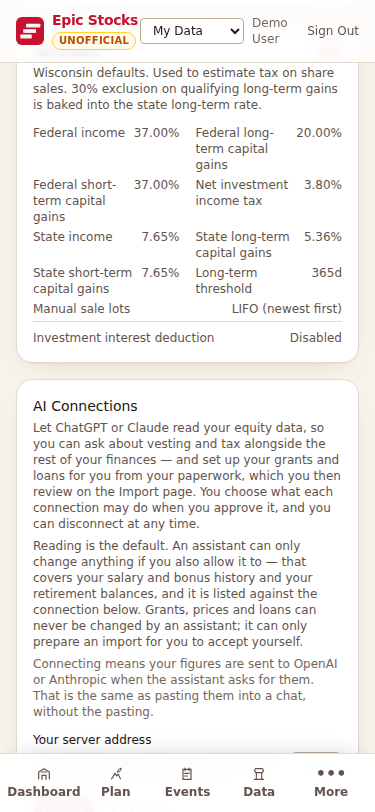
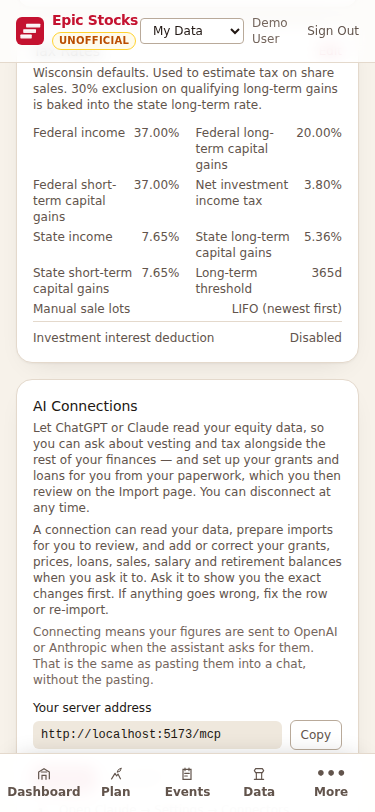
Grant every connector permission by default
ChatGPT requests no scope, so it was given reads only and there was no
way on the consent screen to let it import or edit. The app is not the
source of truth for anyone's equity — a wrong row is corrected or
re-imported — so a client that names no scope now gets every grantable
scope, and the opt-in checkbox from #558 is removed. The consent screen
still lists what is granted and says the connection can make changes.
Settings and README copy no longer claim reading is the default.

Claude-Session: https://claude.ai/code/session_01LoYvcZMzxmSQqum5N2oGUK

Changed region(s): [[0.088, 0.585, 0.9093, 0.9236]]

diff --git a/frontend/src/scaffold/components/AiConnectionsSection.tsx b/frontend/src/scaffold/components/AiConnectionsSection.tsx
@@ -117,16 +117,13 @@ export function AiConnectionsSection() {
         Let ChatGPT or Claude read your equity data, so you can ask about vesting
         and tax alongside the rest of your finances — and set up your grants and
         loans for you from your paperwork, which you then review on the Import
-        page. You choose what each
-        connection may do when you approve it, and you can disconnect at any
-        time.
+        page. You can disconnect at any time.
       </p>
       <p className="mt-1.5 text-xs text-cs-text-2">
-        Reading is the default. An assistant can only change anything if you
-        also allow it to — that covers your salary and bonus history and your
-        retirement balances, and it is listed against the connection below.
-        Grants, prices and loans can never be changed by an assistant; it can
-        only prepare an import for you to accept yourself.
+        A connection can read your data, prepare imports for you to review, and
+        add or correct your grants, prices, loans, sales, salary and retirement
+        balances when you ask it to. Ask it to show you the exact changes
+        first. If anything goes wrong, fix the row or re-import.
       </p>
       <p className="mt-1.5 text-xs text-cs-muted">
         Connecting means your figures are sent to OpenAI or Anthropic when the

diff --git a/frontend/src/__tests__/AiConnectionsSection.test.tsx b/frontend/src/__tests__/AiConnectionsSection.test.tsx
@@ -150,13 +150,11 @@ describe('AiConnectionsSection', () => {
     expect(screen.queryByText('Recent activity')).not.toBeInTheDocument()
   })
 
-  it('is explicit that reading is the default and writing is opt-in', async () => {
+  it('says plainly that a connection can edit, and how to recover', async () => {
     vi.spyOn(api, 'getAiConnections').mockResolvedValue([])
     render(<AiConnectionsSection />)
-    expect(await screen.findByText(/Reading is the default/)).toBeInTheDocument()
-    // The one promise that must survive any new scope: equity is never
-    // writable by an assistant.
-    expect(screen.getByText(/never be changed by an assistant/)).toBeInTheDocument()
+    expect(await screen.findByText(/add or correct your grants/)).toBeInTheDocument()
+    expect(screen.getByText(/fix the row or re-import/)).toBeInTheDocument()
   })
 
   it('marks a connection that was allowed to make changes', async () => {

diff --git a/backend/scaffold/oauth/consent.py b/backend/scaffold/oauth/consent.py
@@ -71,8 +71,6 @@ li svg { flex: none; margin-top: .1875rem; }
   font-size: .8125rem; color: var(--text-2); background: var(--raised);
   border-radius: .625rem; padding: .625rem .75rem; margin-bottom: 1rem;
 }
-.opt { display: flex; gap: .5rem; align-items: flex-start; font-size: .8125rem; margin: 0 0 1rem; }
-.opt input { margin-top: .2rem; }
 .who { font-size: .8125rem; color: var(--muted); margin-bottom: 1.25rem; word-break: break-all; }
 .actions { display: flex; gap: .5rem; }
 button {
@@ -108,7 +106,7 @@ def _page(title: str, body: str) -> str:
 def render_consent(*, client_name: str, redirect_origin: str, account_email: str,
                    scope_labels: list[str], request_token: str, csrf: str,
                    read_only: bool = True, writes_directly: bool = False,
-                   equity_write: bool = False, offer_import: bool = False,
+                   equity_write: bool = False,
                    app_name: str = "Epic Stocks") -> str:
     items = "".join(f"<li>{_CHECK}<span>{_esc(label)}</span></li>" for label in scope_labels)
     # The claim has to follow the scopes actually being granted. This is the one
@@ -120,11 +118,6 @@ def render_consent(*, client_name: str, redirect_origin: str, account_email: str
         note = (
             "It will not be able to change anything — this connection is "
             "read-only. You can disconnect it at any time in Settings."
-            if not offer_import else
-            "It will not be able to change anything — this connection is "
-            "read-only unless you tick the option below, which still changes "
-            "nothing until you accept it in the app. You can disconnect it at "
-            "any time in Settings."
         )
     elif writes_directly and equity_write:
         note = (
@@ -155,10 +148,7 @@ def render_consent(*, client_name: str, redirect_origin: str, account_email: str
         "<form method=\"post\" action=\"/oauth/authorize\">"
         f"<input type=\"hidden\" name=\"request\" value=\"{_esc(request_token)}\">"
         f"<input type=\"hidden\" name=\"csrf\" value=\"{_esc(csrf)}\">"
-        + ("<label class=\"opt\"><input type=\"checkbox\" name=\"add_scope\" "
-           "value=\"import:propose\"><span>Also let it prepare imports for you to "
-           "review — it cannot change your data</span></label>" if offer_import else "")
-        +         "<div class=\"actions\">"
+        "<div class=\"actions\">"
         "<button class=\"deny\" type=\"submit\" name=\"decision\" value=\"deny\">Cancel</button>"
         "<button class=\"allow\" type=\"submit\" name=\"decision\" value=\"allow\">Connect</button>"
         "</div></form>"

diff --git a/backend/tests/test_oauth_server.py b/backend/tests/test_oauth_server.py
@@ -758,51 +758,3 @@ def test_the_whole_flow_works_when_the_user_has_to_sign_in_first(client, db_sess
     })
     assert tokens.status_code == 200, tokens.text
     assert tokens.json()["access_token"]
-
-
-# ── opting in to imports on the consent screen (#558) ───────────────────────
-
-def _connect_with(client, scope, add_scope=None):
-    reg = register_client(client)
-    verifier, challenge = pkce_pair()
-    page = authorize(client, reg["client_id"], challenge, scope=scope).text
-    action = page.split('<form method="post" action="')[1].split('"')[0]
-    request_token = page.split('name="request" value="')[1].split('"')[0]
-    csrf = page.split('name="csrf" value="')[1].split('"')[0]
-    data = {"request": request_token, "csrf": csrf, "decision": "allow"}
-    if add_scope:
-        data["add_scope"] = add_scope
-    code = code_from(client.post(action, data=data, follow_redirects=False))
-    return page, client.post("/oauth/token", data={
-        "grant_type": "authorization_code", "code": code, "redirect_uri": REDIRECT,
-        "client_id": reg["client_id"], "code_verifier": verifier}).json()
-
-
-def test_a_reading_connection_is_offered_imports_unticked(client):
-    register_user(client)
-    page, tokens = _connect_with(client, "equity:read comp:read")
-    assert 'name="add_scope" value="import:propose"' in page
-    assert " checked" not in page.split('name="add_scope"')[1].split(">")[0]
-    assert "import:propose" not in tokens["scope"]
-
-
-def test_ticking_the_offer_grants_imports(client):
-    register_user(client)
-    _, tokens = _connect_with(client, "equity:read", add_scope=["import:propose"])
-    assert tokens["scope"].split() == ["equity:read", "import:propose"]
-
-
-def test_the_offer_cannot_smuggle_in_a_direct_write(client):
-    register_user(client)
-    _, tokens = _connect_with(client, "equity:read",
-                              add_scope=["equity:write", "comp:write", "import:propose"])
-    assert tokens["scope"].split() == ["equity:read", "import:propose"]
-
-
-def test_no_offer_without_equity_read_or_when_already_requested(client):
-    register_user(client)
-    reg = register_client(client)
-    _, challenge = pkce_pair()
-    for scope in ("comp:read", "equity:read import:propose"):
-        page = authorize(client, reg["client_id"], challenge, scope=scope).text
-        assert 'name="add_scope"' not in page

diff --git a/backend/scaffold/oauth/scopes.py b/backend/scaffold/oauth/scopes.py
@@ -38,10 +38,12 @@ IMMEDIATE_WRITE_SCOPES: frozenset[str] = frozenset({COMP_WRITE, EQUITY_WRITE})
 # "not yet" rather than a bare invalid_scope.
 RESERVED_SCOPES: tuple[str, ...] = ("shared:read",)
 
-# What a client that names no scope gets. Deliberately the reads only: most MCP
-# clients do not narrow, and nothing that leaves a trace should arrive by
-# default.
-DEFAULT_SCOPES: tuple[str, ...] = (EQUITY_READ, COMP_READ)
+# What a client that names no scope gets: everything grantable. ChatGPT names
+# none, and a read-only default left people unable to find how to let it edit.
+# The app is not the source of truth for anyone's equity — a wrong row is fixed
+# by editing it or re-importing — so the consent screen lists what is granted
+# and that is the check.
+DEFAULT_SCOPES: tuple[str, ...] = SUPPORTED_SCOPES
 
 SCOPE_LABELS: dict[str, str] = {
     EQUITY_READ: "Read your equity — grants, vesting, prices, loans, sales and tax estimates",
@@ -50,26 +52,6 @@ SCOPE_LABELS: dict[str, str] = {
     IMPORT_PROPOSE: "Prepare an import for you to review — it cannot change your data",
     EQUITY_WRITE: "Create, correct or remove your grants, prices, loans and sales directly",
 }
-
-
-# What the consent screen may add when the client did not ask for it. Clients
-# that request no scope get reads only, so without this the import path — the
-# ordinary way in — was invisible to them with no way for the user to enable it.
-# Only the review-first permission: nothing that writes directly is offered.
-OPT_IN_SCOPES: frozenset[str] = frozenset({IMPORT_PROPOSE})
-
-
-def can_offer_import(granted: list[str] | tuple[str, ...]) -> bool:
-    return EQUITY_READ in granted and IMPORT_PROPOSE not in granted
-
-
-def with_opt_in(scope: str, chosen: list[str]) -> str:
-    """The pending scope plus whatever the user ticked that may be offered."""
-    granted = scope.split()
-    for s in chosen:
-        if s in OPT_IN_SCOPES and s not in granted and can_offer_import(granted):
-            granted.append(s)
-    return format_scope(granted)
 
 
 def writes_anything(scopes: list[str] | tuple[str, ...]) -> bool:

diff --git a/backend/scaffold/oauth/router.py b/backend/scaffold/oauth/router.py
@@ -314,7 +314,6 @@ def authorize(request: Request, db: Session = Depends(get_db)):
         read_only=not scope_defs.writes_anything(granted),
         writes_directly=scope_defs.writes_directly(granted),
         equity_write=scope_defs.EQUITY_WRITE in granted,
-        offer_import=scope_defs.can_offer_import(granted),
         request_token=request_token,
         csrf=_csrf_for(session_token, request_token),
     ))
@@ -359,7 +358,6 @@ def authorize_resume(request: Request, db: Session = Depends(get_db)):
         read_only=not scope_defs.writes_anything(pending["sc"].split()),
         writes_directly=scope_defs.writes_directly(pending["sc"].split()),
         equity_write=scope_defs.EQUITY_WRITE in pending["sc"].split(),
-        offer_import=scope_defs.can_offer_import(pending["sc"].split()),
         request_token=request_token,
         csrf=_csrf_for(session_token, request_token),
     ))
@@ -368,7 +366,7 @@ def authorize_resume(request: Request, db: Session = Depends(get_db)):
 @router.post("/authorize")
 def authorize_decide(request: Request, decision: str = Form(...),
                      request_token: str = Form(..., alias="request"),
-                     csrf: str = Form(...), add_scope: list[str] = Form(default=[]),
+                     csrf: str = Form(...),
                      db: Session = Depends(get_db)):
     if not _enabled():
         return _error_page("Not available", "AI connections are turned off on this server.", 404)
@@ -421,7 +419,7 @@ def authorize_decide(request: Request, decision: str = Form(...),
         user_id=user.id,
         client_id=client.client_id,
         redirect_uri=redirect_uri,
-        scope=scope_defs.with_opt_in(pending["sc"], add_scope),
+        scope=pending["sc"],
         code_challenge=pending["cc"],
         resource=pending.get("res") or None,
         expires_at=datetime.now(timezone.utc) + AUTH_CODE_TTL,

diff --git a/backend/tests/test_mcp_import.py b/backend/tests/test_mcp_import.py
@@ -231,13 +231,14 @@ def test_the_consent_screen_stops_claiming_read_only_when_it_is_not(client):
     assert "cannot change your data on its own" in proposing
 
 
-def test_proposing_is_not_granted_by_default(client):
-    """A client that names no scope gets the reads. Nothing that leaves a trace
-    should arrive without being asked for."""
+def test_a_client_that_names_no_scope_gets_every_tool(client):
+    """ChatGPT names none. A read-only default left people unable to find how
+    to let it import or edit, so the default is everything grantable."""
     register_user(client)
     seed(client)
     default = Mcp(client, scope="")
-    assert "stage_import" not in {t["name"] for t in default.list_tools()}
+    names = {t["name"] for t in default.list_tools()}
+    assert {"stage_import", "save_equity", "add_compensation"} <= names
 
 
 def test_the_prefill_keeps_prices_the_draft_does_not_cover(mcp, client):

diff --git a/CLAUDE.md b/CLAUDE.md
@@ -26,7 +26,7 @@ Equity vesting tracker PWA. See SPEC.md for full requirements.
 
 - **Every MCP read is audited, and the entry is written before the tool runs.** `scaffold/oauth/audit.py` inserts the `mcp_audit` row first and updates its outcome afterwards, so a failed audit write refuses the call rather than serving data off the books — `oauth_grants.last_used_at` alone was one timestamp overwritten per request, which says a connection was used, not what it read. **The table carries no financial data**: tool names, scopes and outcomes only, never arguments, figures or results — the same rule as `user_reports`, and `test_mcp_audit.py` walks the columns to keep it. `grant_id` deliberately has no foreign key, because the record of what a connection did must outlive disconnecting it. `/mcp` is rate limited per connection *and* per account in `app/mcp/transport.py`: nothing else covers that path (the mutation limiter only inspects `/api/`, and an IP-keyed limit would count the provider's servers, not the user's). The nightly job in `scaffold/oauth/cleanup.py` prunes unused client registrations, abandoned authorization codes and old audit rows — all three grow on their own, and anonymous dynamic registration means a stranger can add to the first.
 - **Chatting is the first-class way in, and its guide is not the repair brief.** `app/mcp/import_guide.py` tells an assistant to draft with reasoned best guesses, walk the person through them in plain words and record each in `assumptions`; `epic_import/prompt.py` stays strict ("use only figures present", one JSON object) because it repairs a parse of files. Don't merge the two. A custom schedule (an award no template covers, or one moved by leave) is used only with `custom_schedule`, `schedule_confirmed` and `basis_confirmed` set after the person confirmed them. A proposal is a merge, not a replacement: grants it omits are carried through the wizard **verbatim, loans included** (`_wizard_prefill` carries their loans; the wizard's `keepCarriedLoans` stops the schedule path rebuilding them from estimates), and `epic_import/changes.py` tells both the assistant and the review screen what accepting would change. `stage_import` must not run its findings through `supersede_parse_findings` — that is for a repair replacing an earlier file parse. A G1 similarity to a configured type is a hint only; it never creates a grant or blocks a file import, because historic conversion rows look like types. `test_mcp_chat_import.py` and `carriedGrants.test.ts` pin it.
-- **An import proposal and a chat edit are different writes.** `app/mcp/import_tools.py:stage_import` checks a draft and stages an `import_proposals` row; it writes no equity and the wizard remains the only way to accept a whole-account import. A separately granted `equity:write` scope allows `save_equity`/`remove_equity` to edit one row at a time, through the same validated router functions as the app. Corrections and removals require the current row version, and the assistant must obtain user confirmation of each concrete edit. These tools cannot use a document's absence to replace the account, so existing sales, loans and projections are not deleted by an incomplete file. Both writing permissions are absent from `DEFAULT_SCOPES`. A client that did not request `import:propose` has it offered on the consent screen as an unticked box (`scopes.py:OPT_IN_SCOPES`, `with_opt_in`); nothing that writes directly is ever offered there, and a posted `add_scope` outside that set is ignored.
+- **An import proposal and a chat edit are different writes.** `app/mcp/import_tools.py:stage_import` checks a draft and stages an `import_proposals` row; it writes no equity and the wizard remains the only way to accept a whole-account import. A separately granted `equity:write` scope allows `save_equity`/`remove_equity` to edit one row at a time, through the same validated router functions as the app. Corrections and removals require the current row version, and the assistant must obtain user confirmation of each concrete edit. These tools cannot use a document's absence to replace the account, so existing sales, loans and projections are not deleted by an incomplete file. `DEFAULT_SCOPES` is every grantable scope, writes included: ChatGPT names no scope, and a read-only default left people unable to find how to let it edit. The app is not the source of truth for anyone's equity — a wrong row is corrected or re-imported — so the consent screen listing what is granted is the check.
 - **`comp:write` and `equity:write` have different boundaries.** `backend/app/mcp/comp_tools.py` edits named compensation and retirement fields without taking the frontend-owned blob. `equity:write` goes through the app's row validation for grants, prices, loans and sales and requires version checks on corrections. Never return data the caller did not send from a write. Retirement balances are stored in **millions of dollars** (the simulator's inputs are labelled `$M`); `_millions` refuses anything over `MAX_PORTFOLIO_MILLIONS`. `test_mcp_writes.py` and `test_mcp_equity_chat.py` assert writes through the app's read endpoints.
 - **A connector token is not a session token.** `backend/scaffold/auth.py` mints two kinds of JWT and the type claim decides where each works: `get_current_user` refuses anything that is not `typ: "session"`, and `scaffold/oauth/resource.py:require_connector` refuses anything that is not `typ: "mcp"`. Tokens predating the claim carry no `typ` and read as session, so nobody was signed out by the split. Without both halves a leaked AI-connector token would be a full account session, `/api/admin/*` included — `test_oauth_server.py` pins both directions. Connector tokens are also bound to this server by `aud` (RFC 8707) and checked against their `oauth_grants` row on every request, which is what makes Disconnect immediate rather than "at the next expiry". Never widen `decode_jwt` into an authorization decision: it verifies signature and expiry only, deliberately, because `EncryptionMiddleware` needs the subject of *either* kind to put the right data key in context.
 - **The OAuth server's redirect validation is its own, and `E2E_TEST` must never reach it.** `scaffold/oauth/clients.py:validate_redirect_uri` is separate from `auth_router._validate_redirect_uri` on purpose — the login flow's copy is skipped under `E2E_TEST=1`, and an authorization server that inherited that would hand authorization codes to any address a caller named. Dynamic client registration is anonymous, so the admin-managed provider allowlist (`oauth_redirect_hosts`, read through `scaffold/oauth/settings.py`) plus exact (never prefix) redirect matching plus consent shown every time are what close the confused-deputy hole. Whether connections are on at all, and which providers are allowed, are DB settings and **not** environment variables — a test greps `app/` and `scaffold/` to keep it that way, because a stale env var silently overriding the admin page is the failure this move was meant to remove.

diff --git a/README.md b/README.md
@@ -461,11 +461,11 @@ You can let ChatGPT or Claude read your equity data, so you can ask about vestin
 
 **What this does and does not do.** The assistant can read your grants, vesting timeline, prices, loans, sales and tax estimates, and your salary and retirement settings if you allow that. Connecting means your figures are sent to OpenAI or Anthropic when the assistant asks for them — the same as pasting them into a chat, but without the pasting.
 
-**Equity editing is a separate permission.** By default, the assistant can only read. You can allow `import:propose` to prepare a draft for review in the app, or explicitly allow `equity:write` to create, correct and remove individual grants, prices, loans and sales through chat. Those edits take effect immediately. Ask it to show you the exact values first, then check the saved rows and dashboard afterward. Disconnecting revokes access.
+**Connecting grants every permission.** The assistant can read your data, prepare an import for you to review (`import:propose`), and create, correct and remove individual grants, prices, loans and sales (`equity:write`) and salary and retirement figures (`comp:write`). The app is not the source of truth for your equity — anything wrong can be corrected or re-imported. Those edits take effect immediately. Ask it to show you the exact values first, then check the saved rows and dashboard afterward. Disconnecting revokes access.
 
 **Letting it keep your salary and retirement numbers current.** Two things you type by hand *can* be written, if you tick that permission when you connect: your salary and bonus history, and the account balances the retirement simulator starts from. Then *"I got a raise to $205k in April"* or *"my 401(k) is at $850k now"* updates the app as you say it, instead of becoming a note to go and do it later. These are figures nothing else is computed from, and you are looking at them on the page — which is why they are the ones that are safe to write. Salary and bonus writes add to the history rather than replacing it, and repeating a request does not double a raise.
 
-**Getting your equity in by chatting — the easiest way in.** You don't need to know what a cost basis or a vesting schedule is. Connect ChatGPT or Claude with the import permission ticked, then share whatever you have — grant letters, the Shareworks CSV and loan statement, screenshots, or just what you remember. The Import page shows a **Let ChatGPT or Claude do it** card with a message to start the chat. The assistant reads `get_import_guide`, drafts your grants and loans, walks you through what it found in plain words (saying what it guessed), and calls `stage_import`. A grant Epic's published schedule doesn't cover — this year's, or a one-off award — keeps the dates you confirmed with the assistant. Adding one grant only adds one grant: grants the draft doesn't mention are kept exactly as they are, loans included, and the review shows what the guesses were and what accepting would change. If your assistant didn't ask for the import permission, the connect screen offers it as an unticked box — tick it to allow imports.
+**Getting your equity in by chatting — the easiest way in.** You don't need to know what a cost basis or a vesting schedule is. Connect ChatGPT or Claude with the import permission ticked, then share whatever you have — grant letters, the Shareworks CSV and loan statement, screenshots, or just what you remember. The Import page shows a **Let ChatGPT or Claude do it** card with a message to start the chat. The assistant reads `get_import_guide`, drafts your grants and loans, walks you through what it found in plain words (saying what it guessed), and calls `stage_import`. A grant Epic's published schedule doesn't cover — this year's, or a one-off award — keeps the dates you confirmed with the assistant. Adding one grant only adds one grant: grants the draft doesn't mention are kept exactly as they are, loans included, and the review shows what the guesses were and what accepting would change.
 
 That does **not** save anything. It leaves a draft on the Import page, and you accept it in the same wizard an uploaded file goes through, with the same checks and the same diff. Confirmed custom grants and leave-adjusted dates appear in that review; older grants and prices outside the company schedule are kept unless you select them for removal. Unanswered sales remain visible for you to complete. If your assistant tells you staging finished the import, it is wrong — open the app and look. A draft you never accept expires after seven days.
 
@@ -488,7 +488,7 @@ That does **not** save anything. It leaves a draft on the Import page, and you a
 | `get_compensation` | Salary and bonus history (needs the compensation permission) |
 | `get_retirement_params` | Saved retirement simulator settings (needs the compensation permission) |
 
-**What it can write** — with separately requested write permissions, never granted by default:
+**What it can write:**
 
 | Tool | What it changes |
 |------|-----------------|
